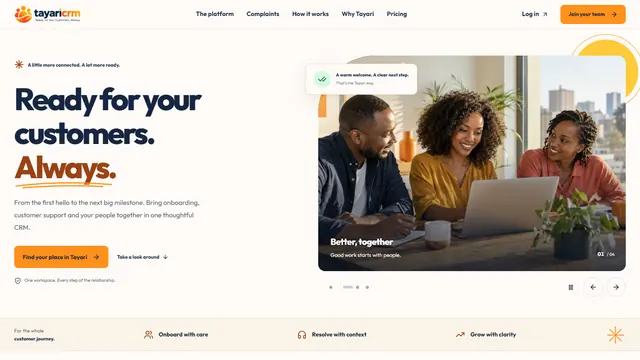
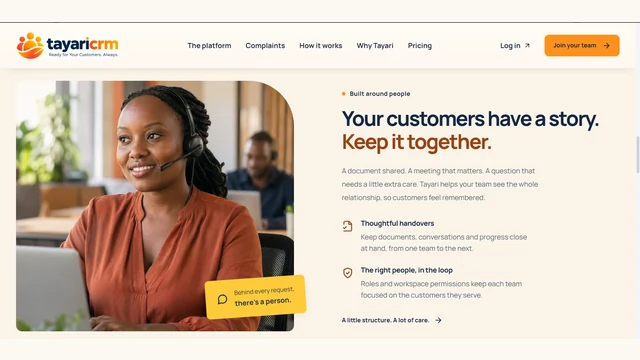
Update Tayari CRM portfolio preview

diff --git a/index.html b/index.html
@@ -530,7 +530,7 @@
                 <!-- Tayari CRM website -->
                 <div class="bg-slate-900/60 border border-slate-800/80 rounded-xl p-5 sm:p-6 flex flex-col justify-between hover:border-slate-700 transition-all">
                     <div>
-                <a href="https://tayaricrm.com" target="_blank" rel="noopener noreferrer" aria-label="Visit the live Tayari CRM website" class="relative block -mx-5 -mt-5 sm:-mx-6 sm:-mt-6 mb-5 rounded-t-xl overflow-hidden border-b border-slate-800/80 bg-slate-800"><span class="absolute top-2 right-2 z-10 inline-flex items-center gap-1.5 px-2 py-0.5 rounded-full bg-slate-950/80 border border-slate-700 text-xs font-mono font-semibold text-white"><span class="w-1.5 h-1.5 rounded-full bg-emerald-400"></span>Live</span><img src="img/tayari.webp" alt="Screenshot of the Tayari CRM public website" width="640" height="360" loading="lazy" decoding="async" class="w-full aspect-video object-cover object-top"></a>
+                <a href="https://tayaricrm.com" target="_blank" rel="noopener noreferrer" aria-label="Visit the live Tayari CRM website" class="relative block -mx-5 -mt-5 sm:-mx-6 sm:-mt-6 mb-5 rounded-t-xl overflow-hidden border-b border-slate-800/80 bg-slate-800"><span class="absolute top-2 right-2 z-10 inline-flex items-center gap-1.5 px-2 py-0.5 rounded-full bg-slate-950/80 border border-slate-700 text-xs font-mono font-semibold text-white"><span class="w-1.5 h-1.5 rounded-full bg-emerald-400"></span>Live</span><img src="img/tayari.webp?v=71e7a4a8" alt="Tayari CRM website showing its customer support and team handover features" width="640" height="360" loading="lazy" decoding="async" class="w-full aspect-video object-cover object-top"></a>
                         <div class="flex justify-between items-start mb-3">
                             <h4 class="text-lg font-bold text-white">Tayari CRM Website</h4>
                             <span class="text-xs font-mono bg-slate-800 text-slate-300 px-2 py-0.5 rounded">CRM</span>
